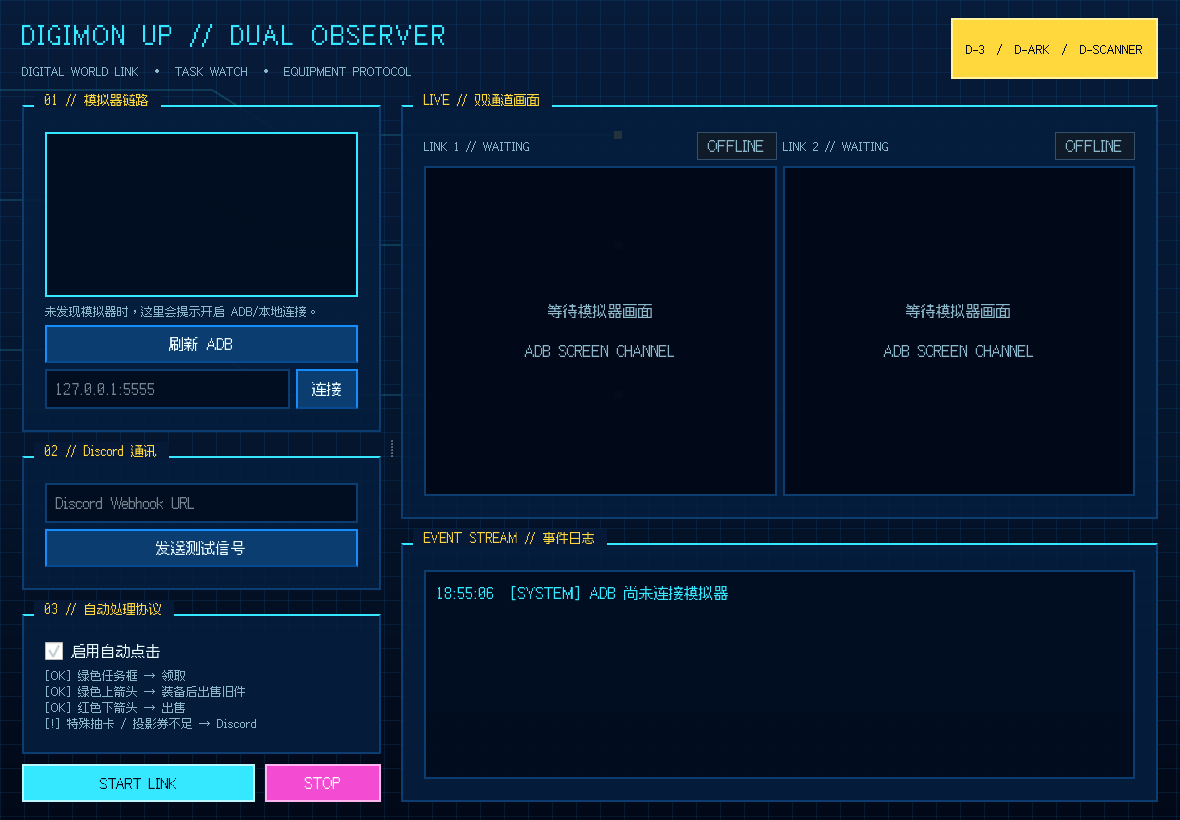
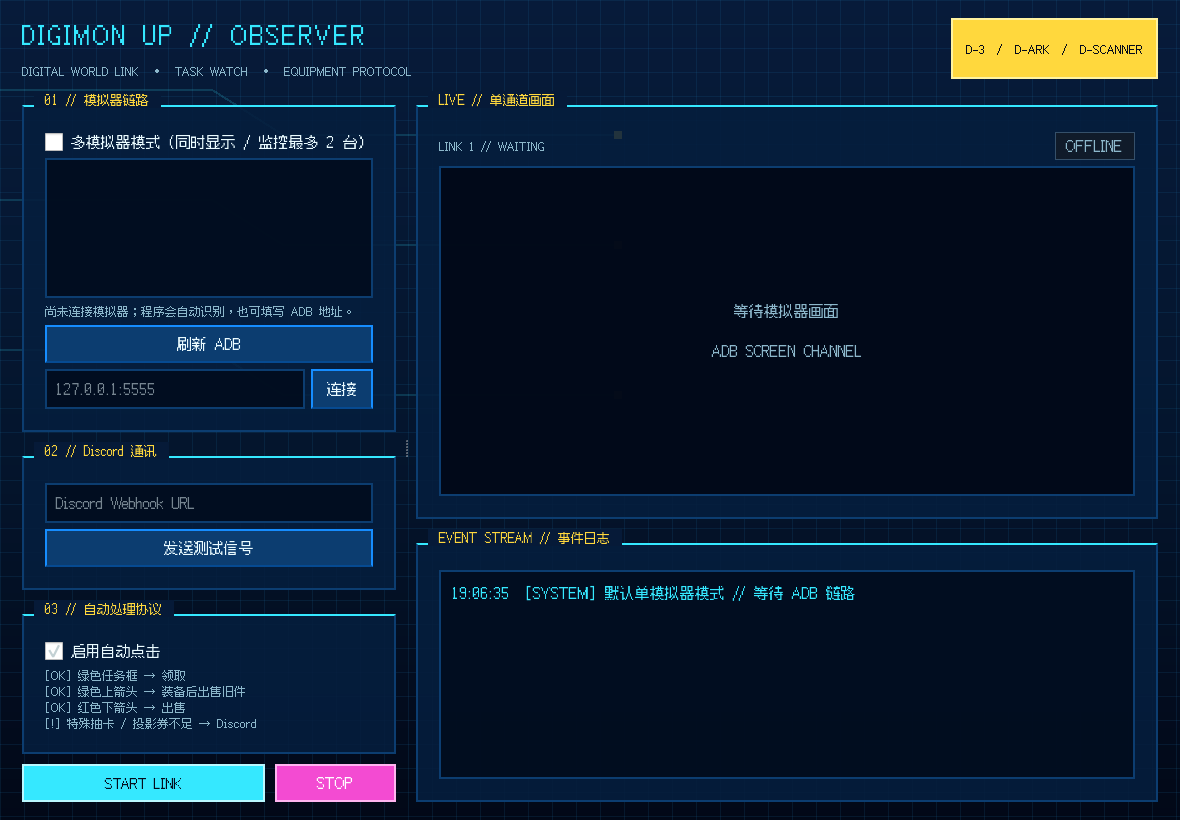
Default to single-emulator monitoring (#1)
Default to one monitored emulator and one visible preview. Add an explicit multi-emulator mode for up to two devices, selection tests, documentation, and a sanitized UI preview.

diff --git a/digimon_monitor/ui.py b/digimon_monitor/ui.py
@@ -41,6 +41,23 @@ class EventBus(QObject):
     discord_test = Signal(bool, str)
 
 
+def normalized_selected_serials(
+    devices: list[AdbDevice],
+    selected: set[str],
+    *,
+    allow_multiple: bool,
+) -> list[str]:
+    """Keep valid selections in ADB order and choose one safe default."""
+    online = [device for device in devices if device.state == "device"]
+    ordered = [device.serial for device in online if device.serial in selected]
+    if not ordered:
+        ordered = [
+            device.serial for device in online if device.is_safe_default
+        ][:1]
+    limit = 2 if allow_multiple else 1
+    return ordered[:limit]
+
+
 class PreviewCard(QFrame):
     def __init__(self, index: int):
         super().__init__()
@@ -124,8 +141,9 @@ class MainWindow(QMainWindow):
             status_callback=self.bus.status.emit,
         )
         self.devices: list[AdbDevice] = []
+        self._updating_device_checks = False
         self.preview_cards = [PreviewCard(1), PreviewCard(2)]
-        self.setWindowTitle("DIGIMON UP // DUAL OBSERVER")
+        self.setWindowTitle("DIGIMON UP // OBSERVER")
         self.resize(1180, 820)
         self.setMinimumSize(980, 700)
         self._build_ui()
@@ -141,7 +159,7 @@ class MainWindow(QMainWindow):
 
         header = QHBoxLayout()
         title_column = QVBoxLayout()
-        title = QLabel("DIGIMON UP // DUAL OBSERVER")
+        title = QLabel("DIGIMON UP // OBSERVER")
         title.setObjectName("Title")
         subtitle = QLabel(
             "DIGITAL WORLD LINK  •  TASK WATCH  •  EQUIPMENT PROTOCOL"
@@ -175,6 +193,11 @@ class MainWindow(QMainWindow):
 
         devices_group = QGroupBox("01 // 模拟器链路")
         devices_layout = QVBoxLayout(devices_group)
+        self.multi_device_mode = QCheckBox(
+            "多模拟器模式（同时显示 / 监控最多 2 台）"
+        )
+        self.multi_device_mode.setChecked(False)
+        devices_layout.addWidget(self.multi_device_mode)
         self.device_list = QListWidget()
         self.device_list.setMinimumHeight(140)
         devices_layout.addWidget(self.device_list)
@@ -239,11 +262,12 @@ class MainWindow(QMainWindow):
         layout.setContentsMargins(8, 0, 0, 0)
         layout.setSpacing(10)
 
-        preview_group = QGroupBox("LIVE // 双通道画面")
-        preview_layout = QHBoxLayout(preview_group)
+        self.preview_group = QGroupBox("LIVE // 单通道画面")
+        preview_layout = QHBoxLayout(self.preview_group)
         for card in self.preview_cards:
             preview_layout.addWidget(card, 1)
-        layout.addWidget(preview_group, 3)
+        self.preview_cards[1].setVisible(False)
+        layout.addWidget(self.preview_group, 3)
 
         log_group = QGroupBox("EVENT STREAM // 事件日志")
         log_layout = QVBoxLayout(log_group)
@@ -257,6 +281,8 @@ class MainWindow(QMainWindow):
 
     def _connect_signals(self) -> None:
         self.refresh_button.clicked.connect(self.refresh_devices)
+        self.multi_device_mode.toggled.connect(self.on_monitor_mode_changed)
+        self.device_list.itemChanged.connect(self.on_device_check_changed)
         self.connect_button.clicked.connect(self.connect_address)
         self.address_edit.returnPressed.connect(self.connect_address)
         self.test_button.clicked.connect(self.test_discord)
@@ -289,6 +315,12 @@ class MainWindow(QMainWindow):
         except Exception as exc:
             QMessageBox.warning(self, "ADB", str(exc))
             return
+        normalized = normalized_selected_serials(
+            self.devices,
+            selected,
+            allow_multiple=self.multi_device_mode.isChecked(),
+        )
+        self._updating_device_checks = True
         self.device_list.clear()
         for device in self.devices:
             alias = self.config.adb.device_aliases.get(device.serial, "")
@@ -299,15 +331,13 @@ class MainWindow(QMainWindow):
             item = QListWidgetItem(display_name + suffix)
             item.setData(Qt.UserRole, device.serial)
             item.setFlags(item.flags() | Qt.ItemIsUserCheckable)
-            checked = (
-                device.serial in selected
-                or (not selected and device.is_safe_default)
-            )
+            checked = device.serial in normalized
             if device.state != "device":
                 checked = False
                 item.setText(item.text() + f"  [{device.state}]")
             item.setCheckState(Qt.Checked if checked else Qt.Unchecked)
             self.device_list.addItem(item)
+        self._updating_device_checks = False
         running_emulators = detect_running_emulators()
         connected_emulators = [
             device
@@ -350,6 +380,61 @@ class MainWindow(QMainWindow):
             )
         self.append_log("info", f"[SYSTEM] ADB 发现 {len(self.devices)} 个设备")
 
+    @Slot(bool)
+    def on_monitor_mode_changed(self, allow_multiple: bool) -> None:
+        selected = {
+            self.device_list.item(index).data(Qt.UserRole)
+            for index in range(self.device_list.count())
+            if self.device_list.item(index).checkState() == Qt.Checked
+        }
+        normalized = set(
+            normalized_selected_serials(
+                self.devices,
+                selected,
+                allow_multiple=allow_multiple,
+            )
+        )
+        self._updating_device_checks = True
+        for index in range(self.device_list.count()):
+            item = self.device_list.item(index)
+            item.setCheckState(
+                Qt.Checked
+                if item.data(Qt.UserRole) in normalized
+                else Qt.Unchecked
+            )
+        self._updating_device_checks = False
+        self.preview_cards[1].setVisible(allow_multiple)
+        self.preview_group.setTitle(
+            "LIVE // 多通道画面" if allow_multiple else "LIVE // 单通道画面"
+        )
+        mode = "MULTI // 最多 2 台" if allow_multiple else "SINGLE // 1 台"
+        self.append_log("info", f"[SYSTEM] 监控模式切换为 {mode}")
+
+    @Slot(QListWidgetItem)
+    def on_device_check_changed(self, changed_item: QListWidgetItem) -> None:
+        if self._updating_device_checks or changed_item.checkState() != Qt.Checked:
+            return
+        if self.multi_device_mode.isChecked():
+            checked_count = sum(
+                self.device_list.item(index).checkState() == Qt.Checked
+                for index in range(self.device_list.count())
+            )
+            if checked_count > 2:
+                self._updating_device_checks = True
+                changed_item.setCheckState(Qt.Unchecked)
+                self._updating_device_checks = False
+                self.append_log(
+                    "warning",
+                    "[SYSTEM] 多模拟器模式最多选择 2 台",
+                )
+            return
+        self._updating_device_checks = True
+        for index in range(self.device_list.count()):
+            item = self.device_list.item(index)
+            if item is not changed_item:
+                item.setCheckState(Qt.Unchecked)
+        self._updating_device_checks = False
+
     @Slot()
     def connect_address(self) -> None:
         try:
@@ -377,6 +462,8 @@ class MainWindow(QMainWindow):
         if not devices:
             QMessageBox.information(self, "请选择模拟器", "至少勾选一个在线模拟器。")
             return
+        if not self.multi_device_mode.isChecked() and len(devices) > 1:
+            devices = devices[:1]
         if len(devices) > 2:
             QMessageBox.information(
                 self,
@@ -399,6 +486,7 @@ class MainWindow(QMainWindow):
         self.start_button.setEnabled(False)
         self.stop_button.setEnabled(True)
         self.device_list.setEnabled(False)
+        self.multi_device_mode.setEnabled(False)
         self.refresh_button.setEnabled(False)
         self.connect_button.setEnabled(False)
         mode = "AUTO" if self.auto_click.isChecked() else "OBSERVE"
@@ -413,6 +501,7 @@ class MainWindow(QMainWindow):
         self.start_button.setEnabled(True)
         self.stop_button.setEnabled(False)
         self.device_list.setEnabled(True)
+        self.multi_device_mode.setEnabled(True)
         self.refresh_button.setEnabled(True)
         self.connect_button.setEnabled(True)
         self.append_log("info", "[SYSTEM] 所有监控链路已停止")
@@ -428,7 +517,7 @@ class MainWindow(QMainWindow):
         def send() -> None:
             try:
                 self.notifier.send(
-                    "🟦 DIGIMON UP // DUAL OBSERVER 测试信号已连接。"
+                    "🟦 DIGIMON UP // OBSERVER 测试信号已连接。"
                 )
                 self.bus.discord_test.emit(True, "Discord 测试信号发送成功")
             except Exception as exc:

diff --git a/tests/test_ui_selection.py b/tests/test_ui_selection.py
@@ -1,0 +1,57 @@
+from digimon_monitor.adb import AdbDevice
+from digimon_monitor.ui import normalized_selected_serials
+
+
+def _emulator(serial: str, state: str = "device") -> AdbDevice:
+    return AdbDevice(serial=serial, state=state)
+
+
+def test_single_mode_selects_only_first_safe_emulator_by_default() -> None:
+    devices = [
+        AdbDevice(serial="phone-123", state="device", model="Pixel_9"),
+        _emulator("127.0.0.1:5565"),
+        _emulator("emulator-5554"),
+    ]
+
+    assert normalized_selected_serials(
+        devices, set(), allow_multiple=False
+    ) == ["127.0.0.1:5565"]
+
+
+def test_single_mode_keeps_only_one_explicit_selection() -> None:
+    devices = [
+        _emulator("127.0.0.1:5565"),
+        _emulator("emulator-5554"),
+    ]
+
+    assert normalized_selected_serials(
+        devices,
+        {"127.0.0.1:5565", "emulator-5554"},
+        allow_multiple=False,
+    ) == ["127.0.0.1:5565"]
+
+
+def test_multi_mode_keeps_two_explicit_selections() -> None:
+    devices = [
+        _emulator("127.0.0.1:5565"),
+        _emulator("emulator-5554"),
+    ]
+
+    assert normalized_selected_serials(
+        devices,
+        {"127.0.0.1:5565", "emulator-5554"},
+        allow_multiple=True,
+    ) == ["127.0.0.1:5565", "emulator-5554"]
+
+
+def test_offline_selection_falls_back_to_online_emulator() -> None:
+    devices = [
+        _emulator("127.0.0.1:5565", state="offline"),
+        _emulator("emulator-5554"),
+    ]
+
+    assert normalized_selected_serials(
+        devices,
+        {"127.0.0.1:5565"},
+        allow_multiple=True,
+    ) == ["emulator-5554"]

diff --git a/README.md b/README.md
@@ -1,12 +1,13 @@
-# DIGIMON UP // DUAL OBSERVER
+# DIGIMON UP // OBSERVER
 
-一个面向 Windows、BlueStacks 与 LDPlayer（雷电模拟器）的双通道画面监控器。程序通过 ADB 直接取得安卓画面并发送点击，不依赖鼠标位置，因此两个模拟器可以并排、最小化或放在不同显示器上。
+一个面向 Windows 与主流安卓模拟器的 Digimon UP 画面监控器。程序通过 ADB 直接取得安卓画面并发送点击，不依赖鼠标位置，因此模拟器可以最小化或放在不同显示器上。默认只启用一个监控通道；需要时可切换到多模拟器模式。
 
-![像素风双通道监控界面](docs/ui-preview.png)
+![像素风模拟器监控界面](docs/ui-preview.png)
 
 ## 已实现
 
-- 同时监控最多两个已勾选的 ADB 模拟器，并在桌面 UI 中显示实时缩略图。
+- 默认选择并监控一台 ADB 模拟器，只显示一个实时画面，避免无意增加资源占用。
+- 用户开启“多模拟器模式”后，可同时选择并显示最多两台模拟器。
 - 启动和刷新时扫描 Windows 进程，识别 BlueStacks、雷电、夜神、MuMu、逍遥与 Genymotion；检测到模拟器但没有 ADB 时显示对应开启提示。
 - 连续两帧确认右侧任务卡的荧光绿色完成框，然后点击任务卡。
 - 领取后连续确认全屏蓝色“报酬/点击关闭”层，再自动点击关闭并回到新任务。
@@ -40,10 +41,10 @@
 还需要：
 
 1. 在 BlueStacks 与雷电模拟器设置中开启 ADB/本地调试。
-2. 启动两个模拟器和游戏。
+2. 启动准备挂机的模拟器和游戏。
 3. 打开监控器并点“刷新 ADB”。
 4. 把 `config.local.example.yaml` 复制为 `config.local.yaml`，填写本机 BlueStacks ADB 端口与设备别名。该文件不会进入 Git。雷电通常会以 `emulator-5554` 自动出现。
-5. 只勾选需要监控的两个模拟器。Quest、手机等其他 ADB 设备默认不会被勾选。
+5. 默认单模拟器模式只允许勾选一台。若需要双开，开启“多模拟器模式”后再勾选第二台；Quest、手机等其他 ADB 设备默认不会被勾选。
 6. 建议先关闭“启用自动点击”，观察识别日志几分钟；画面与样本一致后再开启。
 
 程序通过无需管理员权限的 Windows Tool Help 进程快照读取主进程文件名，不会读取游戏账号、窗口标题、进程路径、命令行或模拟器内文件。BlueStacks 需要在“设置 → 高级”开启 Android Debug Bridge；雷电应选择“开启本地连接”，不要开启远程连接；MuMu 可在问题诊断/多开器查看 ADB 端口。
